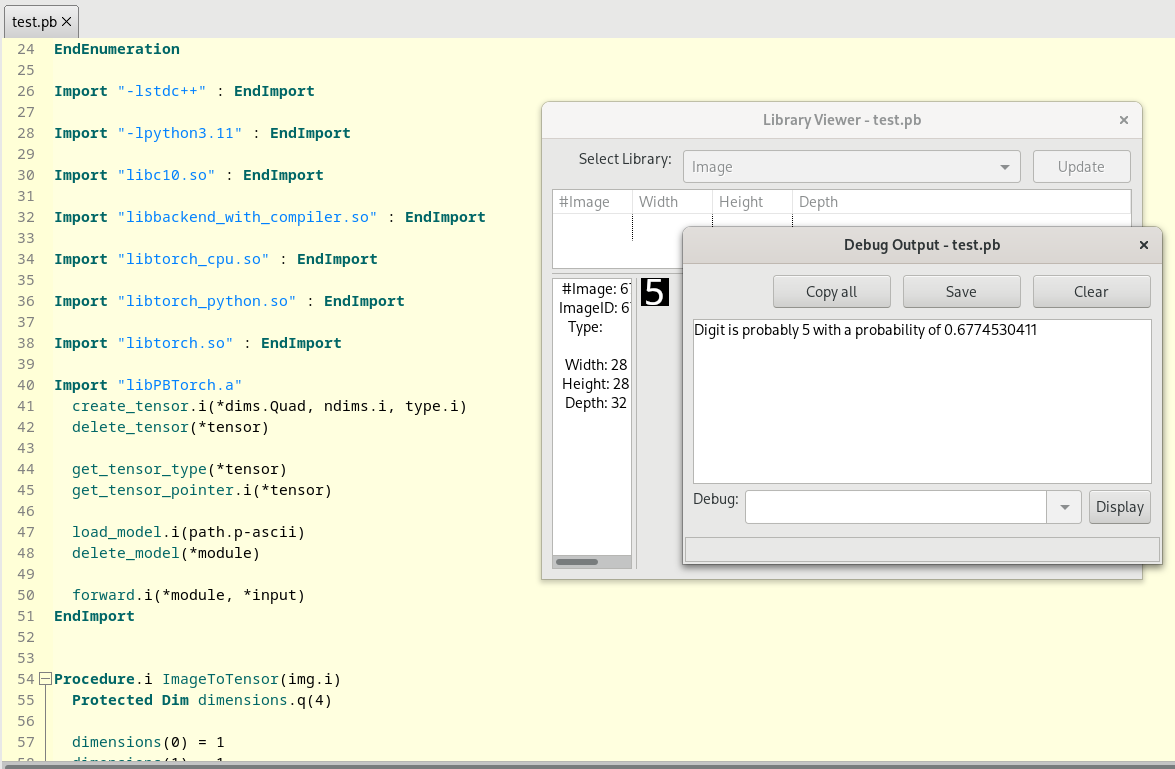
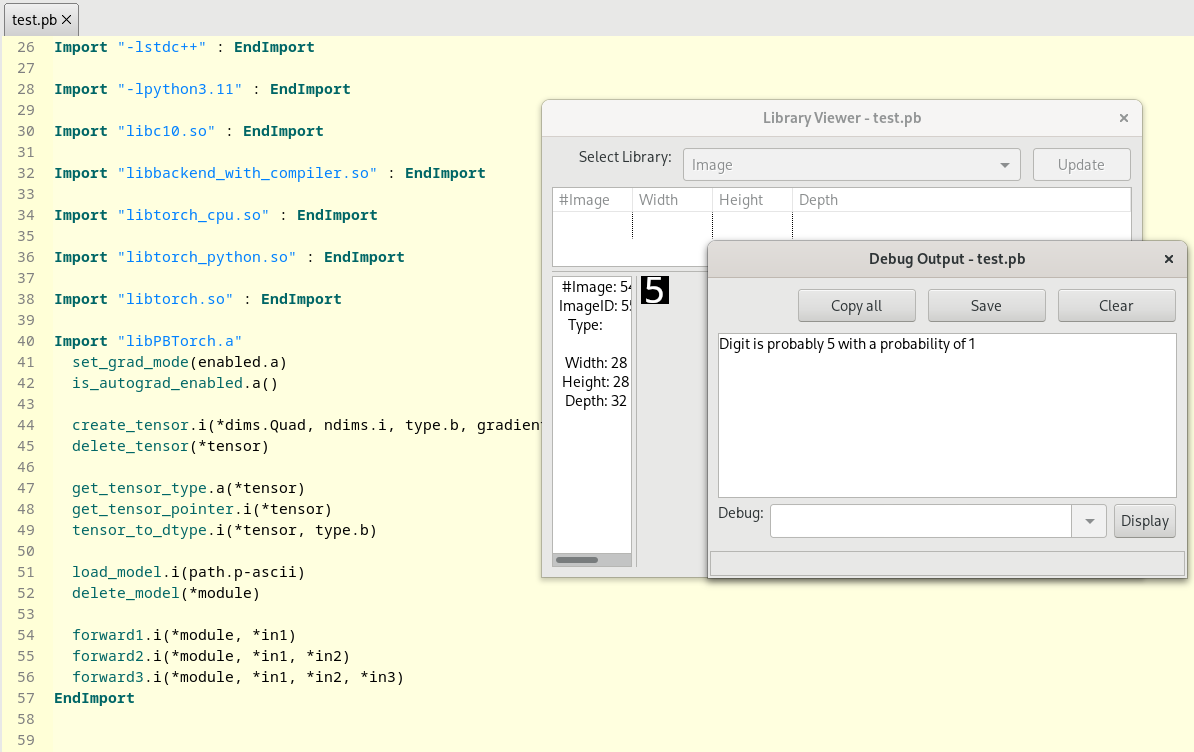
Fixed minor problems

diff --git a/library.cpp b/library.cpp
@@ -1,7 +1,16 @@
 #include "library.h"
 
-torch::Tensor *create_tensor(const long *dims, const size_t ndims, const torch::ScalarType type) {
-    return new torch::Tensor(torch::zeros(torch::IntArrayRef(dims, ndims), type));
+void set_grad_mode(uint8_t enabled) {
+    torch::GradMode::set_enabled(enabled != 0u);
+}
+
+uint8_t is_autograd_enabled() {
+    return torch::GradMode::is_enabled() ? 1u : 0u;
+}
+
+torch::Tensor *create_tensor(const int64_t *dims, const size_t ndims, const torch::ScalarType type, uint8_t gradient) {
+    auto const options = torch::TensorOptions(type).requires_grad(gradient != 0u);
+    return new torch::Tensor(torch::zeros(torch::IntArrayRef(dims, ndims), options));
 }
 
 void delete_tensor(torch::Tensor *tensor) {
@@ -16,6 +25,10 @@ void *get_tensor_pointer(torch::Tensor *tensor) {
     return tensor->data_ptr();
 }
 
+torch::Tensor *tensor_to_dtype(torch::Tensor *tensor, torch::ScalarType type) {
+    return new torch::Tensor(tensor->to(type));
+}
+
 torch::jit::Module *load_model(const char *path) {
     return new torch::jit::Module(torch::jit::load(path));
 }
@@ -24,6 +37,14 @@ void delete_model(torch::jit::Module *module) {
     delete module;
 }
 
-torch::Tensor *forward(torch::jit::Module *module, torch::Tensor *input) {
-    return new torch::Tensor(module->forward({*input}).toTensor().contiguous());
+torch::Tensor *forward1(torch::jit::Module *module, torch::Tensor *in1) {
+    return new torch::Tensor(module->forward({*in1}).toTensor().contiguous());
+}
+
+torch::Tensor *forward2(torch::jit::Module *module, torch::Tensor *in1, torch::Tensor *in2) {
+    return new torch::Tensor(module->forward({*in1, *in2}).toTensor().contiguous());
+}
+
+torch::Tensor *forward3(torch::jit::Module *module, torch::Tensor *in1, torch::Tensor *in2, torch::Tensor *in3) {
+    return new torch::Tensor(module->forward({*in1, *in2, *in3}).toTensor().contiguous());
 }

diff --git a/library.h b/library.h
@@ -3,21 +3,28 @@
 
 #include <torch/torch.h>
 #include <torch/script.h>
+#include <cstddef>
 
 #ifdef __cplusplus
 extern "C" {
 #endif
 
-torch::Tensor *create_tensor(const long *dims, const size_t ndims, const torch::ScalarType type);
+void set_grad_mode(uint8_t enabled);
+uint8_t is_autograd_enabled();
+
+torch::Tensor *create_tensor(const int64_t *dims, size_t ndims, torch::ScalarType type, uint8_t gradient);
 void delete_tensor(torch::Tensor *tensor);
 
 torch::ScalarType get_tensor_type(torch::Tensor *tensor);
 void *get_tensor_pointer(torch::Tensor *tensor);
+torch::Tensor *tensor_to_dtype(torch::Tensor *tensor, torch::ScalarType type);
 
 torch::jit::Module *load_model(const char *path);
 void delete_model(torch::jit::Module *module);
 
-torch::Tensor *forward(torch::jit::Module *module, torch::Tensor *input);
+torch::Tensor *forward1(torch::jit::Module *module, torch::Tensor *in1);
+torch::Tensor *forward2(torch::jit::Module *module, torch::Tensor *in1, torch::Tensor *in2);
+torch::Tensor *forward3(torch::jit::Module *module, torch::Tensor *in1, torch::Tensor *in2, torch::Tensor *in3);
 
 #ifdef __cplusplus
 }

diff --git a/python/model.py b/python/model.py
@@ -31,7 +31,9 @@ class Model(torch.nn.Module):
 
         # 32 features to 10 features
         x = x.view(x.size(0), -1)
-        x = self.linear(x)
+
+        # softmax along the last dimension
+        x = torch.nn.functional.softmax(self.linear(x), dim=-1)
 
         return x
 
